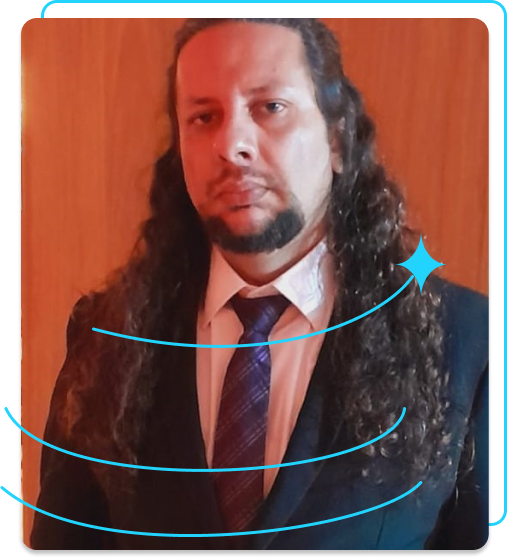
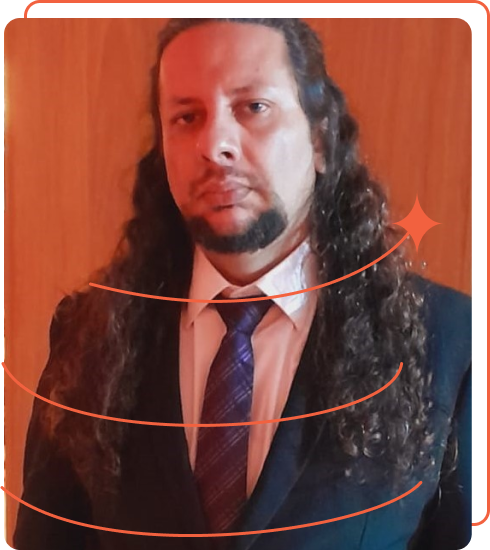
Conclusão do Projeto do curso HTML e CSS_ cabeçalho, footer e variáveis CSS

Changed region(s): [[0.0, 0.0, 1.0, 1.0], [0.7041, 0.6182, 0.7347, 0.6491], [0.6735, 0.6491, 0.7041, 0.68]]

diff --git a/portifolio/css/style.css b/portifolio/css/style.css
@@ -1,35 +1,69 @@
 @import url('https://fonts.googleapis.com/css2?family=Krona+One&family=Montserrat:wght@100..900&display=swap');
 /*importa a fonte - google fonts*/
-/*vh viewport height*/
 
+:root{
+    --cor-primaria: #0C0C0C;/*#000000;*/
+    --cor-secundaria: #9B3922;/*#f6f6f6;*/
+    --cor-terciaria: #F2613F; /*#22d4fd;*/
+    --cor-hover: #481E14;/*#272727; */
+
+    --fonte-principal: "Krona One", sans-serif;
+    --fonte-secundaria: "Montserrat", sans-serif;
+}
+
+/*vh viewport height*/
 body{
     /* height: 100vh; */
     box-sizing: border-box;
-    background-color: #000000;
-    color: #f6f6f6;
+    background-color: var(--cor-primaria);
+    color: var(--cor-secundaria);
+}
+.cabecalho{
+    padding: 2% 0 0 15%;
+}
+.cabecalho__menu {
+    display: flex;
+    align-items: center;
+    gap: 80px;
+}
+.cabecalho__menu__link {
+    font-size: 24px;
+    font-family: var(--fonte-secundaria);
+    font-weight: 600;
+    color: var(--cor-terciaria);
+    text-decoration: none;
+}
+.cabecalho__menu__link:hover {
+    color: var(--cor-hover);
 }
 .apresentacao{
     display: flex;
     align-items: center;
     justify-content: space-between;
     /* margin: 5% 10%; */
-    padding: 15%;
+    padding: 5% 15% 11%;
 }
 .apresentacao__conteudo{
-    width: 615px;
-    height: 482px;
+    /* width: 615px; */
+    /* height: 482px; */
+    min-height: 100vh;  /* permite ajuste dinamico e evita que o main invada o footer */
+    width: 100vw;       /* permite ajuste dinamico e evita que o main invada o footer */
     display: flex;
     flex-direction: column;
     gap: 40px;
 }
 .apresentacao__conteudo__titulo{
     font-size: 36px;
-    font-family: "Krona One", sans-serif;
+    font-family: var(--fonte-principal)
 }
 .apresentacao__conteudo__texto{
     font-size: 24px;
-    font-family: "Montserrat", sans-serif;
+    font-family: var(--fonte-secundaria);
     font-weight: 400;
+}
+.apresentacao__conteudo__texto a{
+    text-decoration: none;
+    color: var(--cor-terciaria);
 }
 .apresentacao__links{
     display: flex;
@@ -39,44 +73,47 @@ body{
     gap: 32px;
 }
 .apresentacao__links__subtitulo{
-    font-family: "Krona One", sans-serif;
+    font-family: var(--fonte-principal);
     font-size: 24px;
     font-weight: 400;
 }
 .apresentacao__links__link{
     /* background-color:#22d4fd; */
     /* width: 280px; */
-    /* color: #000000; */
+    /* color: var(--cor-primaria); */
     /* border-radius: 16px; */
     width: 370px;
-    color: #f6f6f6;
+    color: var(--cor-secundaria);
     border-radius: 8px;
     text-align: center;
     font-size: 24px;
     padding: 21.5px 0;
     text-decoration: none;  
-    font-family: "Montserrat", sans-serif;
+    font-family: var(--fonte-secundaria);
     font-weight: 600;
 
-    border: 2px solid #22d4fd;
+    border: 2px solid var(--cor-terciaria);
     display: flex;
     justify-content: center;
     gap: 16px;
 }
 .apresentacao__links__link:hover{
-    background-color: #272727;
+    background-color: var(--cor-hover);
     cursor: pointer;
 }
 .titulo-destaque{
-    color: #22d4fd;
+    color: var(--cor-secundaria);
     font-weight: 100;
 }
+.foto{
+    align-self: flex-start;
+}
 .rodape{
-    background-color: #22d4fd;
-    color: #000000;
+    background-color: var(--cor-terciaria);
+    color: var(--cor-primaria);
     padding: 24px;
     text-align: center;
-    font-family: "Montserrat", sans-serif;
+    font-family: var(--fonte-secundaria);
     font-size: 24px;
     font-weight: 400;
 }

diff --git a/portifolio/curriculum.html b/portifolio/curriculum.html
@@ -20,25 +20,41 @@
         <section class="apresentacao__conteudo">
             <h1 class="apresentacao__conteudo__titulo">Currículo</h1>
             <p class="apresentacao__conteudo__texto">
-                Apresentação e informações principais
+                Trabalhando com automação para plataformas embarcadas, com mais de 10 anos de experiência na área, principalmente lidando com integração na divisão de controle. 
+                Já atuei como perito para regulação de sinistros na área de Seguros e faço trabalhos de CAD para projetos de engenharia e perícia judicial. 
+                Agora sigo como Perito Judicial e também atuando em projetos temporários de engenharia.
             </p>
             <h2 class="apresentacao__conteudo__titulo">Experiências</h2>
             <p class="apresentacao__conteudo__texto">
             <ul class="apresentacao__conteudo__texto">
-                <li> Empresa tal (2020 - 2021) - fazia isso e aquilo </li>
-                <li> Empresa tal (2021 - 2023) - fazia isso e aquilo </li>
+                <li>Bolsista - Fundação de Desenvolvimento da Pesquisa - Fundep (set de 2021 até o momento)
+                </li>
+                <li>Peirto Judicial - TJERJ (fev de 2019 até o momento)
+                </li>
+                <li>
+                    Bolsista - CNPq - Conselho Nacional de Desenvolvimento Científico e Tecnológico (nov de 2019 até jul de 2020)
+                </li>
+                <li>
+                    Analista de Sistemas Pleno 1 - Fundação de Desenvolvimento da Pesquisa - FUNDEP (jun de 2015 até jan de 2019)
+                </li>
+                <li>
+                    Analista de Sistemas - FEMAR - FUNDAÇÃO DE ESTUDOS DO MAR (mar de 2008 até abr de 2015)
+                </li>
+                <li>
+                    Estagiário - EMGEPRON - Empresa Gerencial de Projetos Navais (mar de 2006 até mar de 2008)
+                </li>
             </ul>
             </p>
             <h2 class="apresentacao__conteudo__titulo">Estudos</h2>
             <div class="apresentacao__conteudo__texto">
             <ul class="apresentacao__conteudo__texto">
-                <li>Curso tal - Alura Cursos <a href="linkdocertificado">com certificado</a> </li>
-                <li>Curso tal - Alura Cursos <a href="linkdocertificado">com certificado</a></li>
-                <li>Curso tal - Alura Cursos <a href="linkdocertificado">com certificado</a></li>
+                <li>Formação - A partir do zero: iniciante em programação <a href="https://cursos.alura.com.br/degree/certificate/5fb51f2b-accc-4290-a08a-5947187334ae?lang=pt_BR">com certificado</a> </li>
+                <!--<li>Curso tal - Alura Cursos <a href="linkdocertificado">com certificado</a></li>-->
+                <!--<li>Curso tal - Alura Cursos <a href="linkdocertificado">com certificado</a></li>-->
             </ul>
             </div>    
         </section>
-        <img src="./assets/imagem.png" alt="Foto da Joana Santos programando">
+        <img src="./assets/imagem.png" alt="Foto do Mauricio Lemme" class="foto">
     </main> 
     <footer class="rodape">
         <p>Desenvolvido pela EMSSAN</p>

diff --git a/portifolio/about.html b/portifolio/about.html
@@ -1,11 +1,30 @@
 <!DOCTYPE html>
 <html lang="pt-br">
 <head>
+    <link rel="stylesheet" href="./css/reset.css">
+    <link rel="stylesheet" href="./css/style.css">
     <meta charset="UTF-8">
     <meta name="viewport" content="width=device-width, initial-scale=1.0">
     <title>Sobre mim</title>
 </head>
 <body>
-    
+    <header class="cabecalho"> <!-- Cabeçalho -->
+        <nav class="cabecalho__menu">
+            <a href="index.html" class="cabecalho__menu__link">Home</a>
+            <a href="about.html" class="cabecalho__menu__link">Sobre mim</a>
+            <a href="curriculum.html" class="cabecalho__menu__link">Currículo</a>
+        </nav>
+    </header>
+    <main class="apresentacao">
+        <section class="apresentacao__conteudo">
+            <h1 class="apresentacao__conteudo__titulo">Sobre mim</h1>
+            <p class="apresentacao__conteudo__texto">Olá! Sou Mauricio Lemme, desenvolvedor de Automação Industrial com especialidade em Schnneider. Ajudo a colocarem em prática boas ideias. Vamos conversar?</p>
+            <p class="apresentacao__conteudo__texto">Lorem ipsum, dolor sit amet consectetur adipisicing elit. Similique expedita magnam fuga perspiciatis, itaque accusantium necessitatibus laboriosam. Deleniti ullam totam excepturi? Delectus excepturi voluptates saepe eveniet nemo expedita doloribus nam.</p>
+        </section>        
+        <img src="./assets/Imagem.png" alt="Foto do Mauricio Lemme" class="foto">
+    </main>
+    <footer class="rodape">
+        <p>Desenvolvido pela EMSSAN</p>
+    </footer>
 </body>
 </html>

diff --git a/portifolio/index.html b/portifolio/index.html
@@ -4,13 +4,17 @@
     <link rel="stylesheet" href="./css/reset.css">
     <link rel="stylesheet" href="./css/style.css">
     <meta charset="UTF-8">
-    <meta http-equiv="X-UA-Compatible" content="IE-edge"> <!-- Compatibilidade EDGE antigo-->
+    <!-- <meta http-equiv="X-UA-Compatible" content="IE-edge"> --> <!-- Compatibilidade EDGE antigo--> 
     <meta name="viewport" content="width=device-width, initial-scale=1.0"> <!--Ajusta a escala para o dispositivo -->
     <title>Portifólio</title>
 </head>
 <body>
-    <header> <!-- Cabeçalho -->
-
+    <header class="cabecalho"> <!-- Cabeçalho -->
+        <nav class="cabecalho__menu">
+            <a href="index.html" class="cabecalho__menu__link">Home</a>
+            <a href="about.html" class="cabecalho__menu__link">Sobre mim</a>
+            <a href="curriculum.html" class="cabecalho__menu__link">Currículo</a>
+        </nav>
     </header>
     <main class="apresentacao">
         <section class="apresentacao__conteudo">
@@ -33,7 +37,7 @@
                 </a>
             </div>
         </section>        
-        <img src="./assets/Imagem.png" alt="Foto do Mauricio Lemme">
+        <img src="./assets/Imagem.png" alt="Foto do Mauricio Lemme" class="foto">
     </main>
     <footer class="rodape">
         <p>Desenvolvido pela EMSSAN</p>
